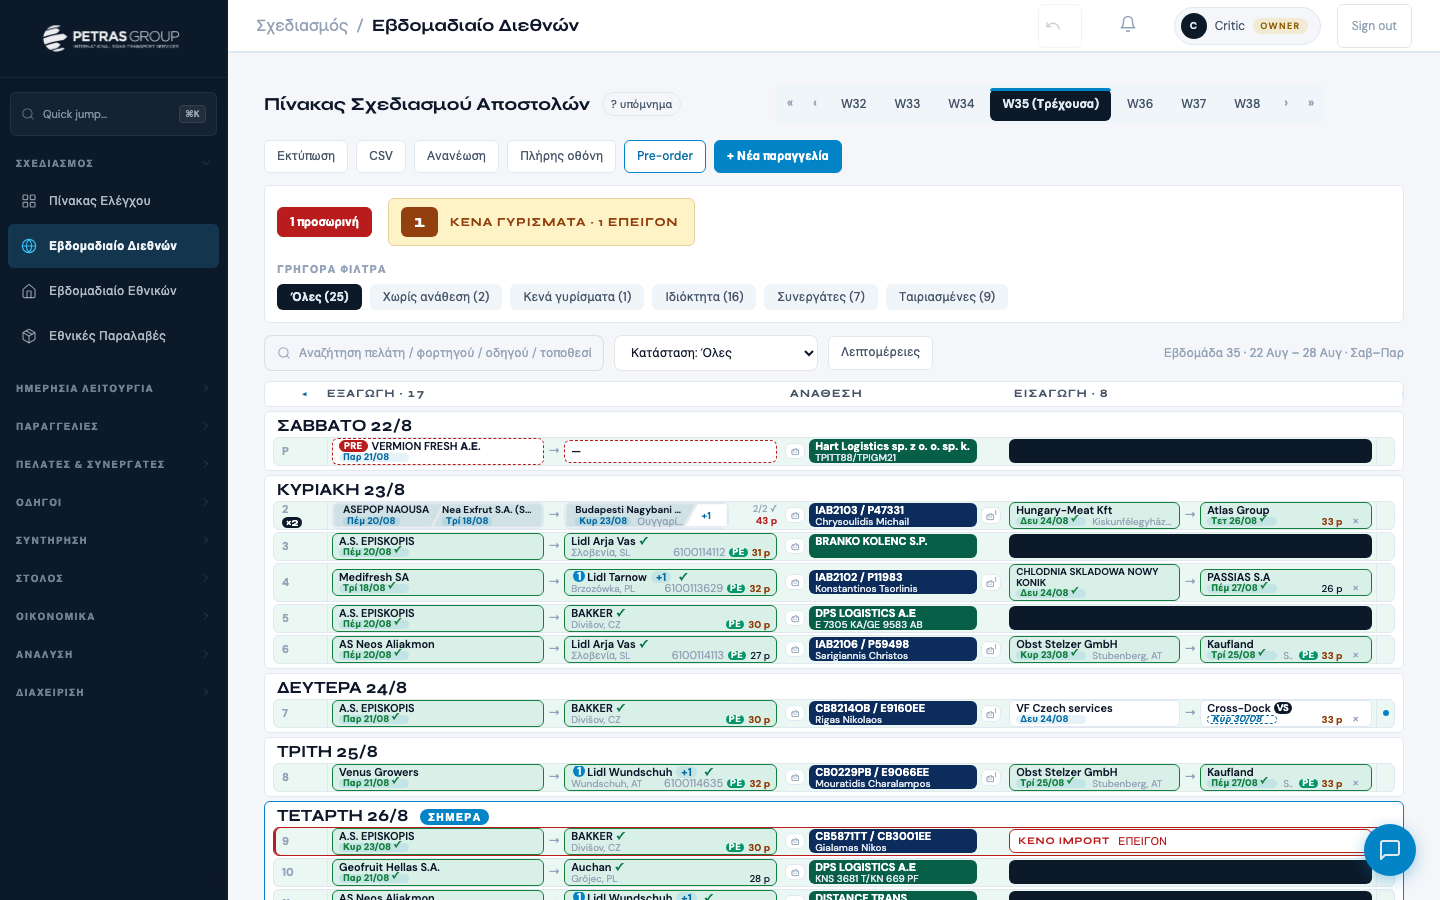
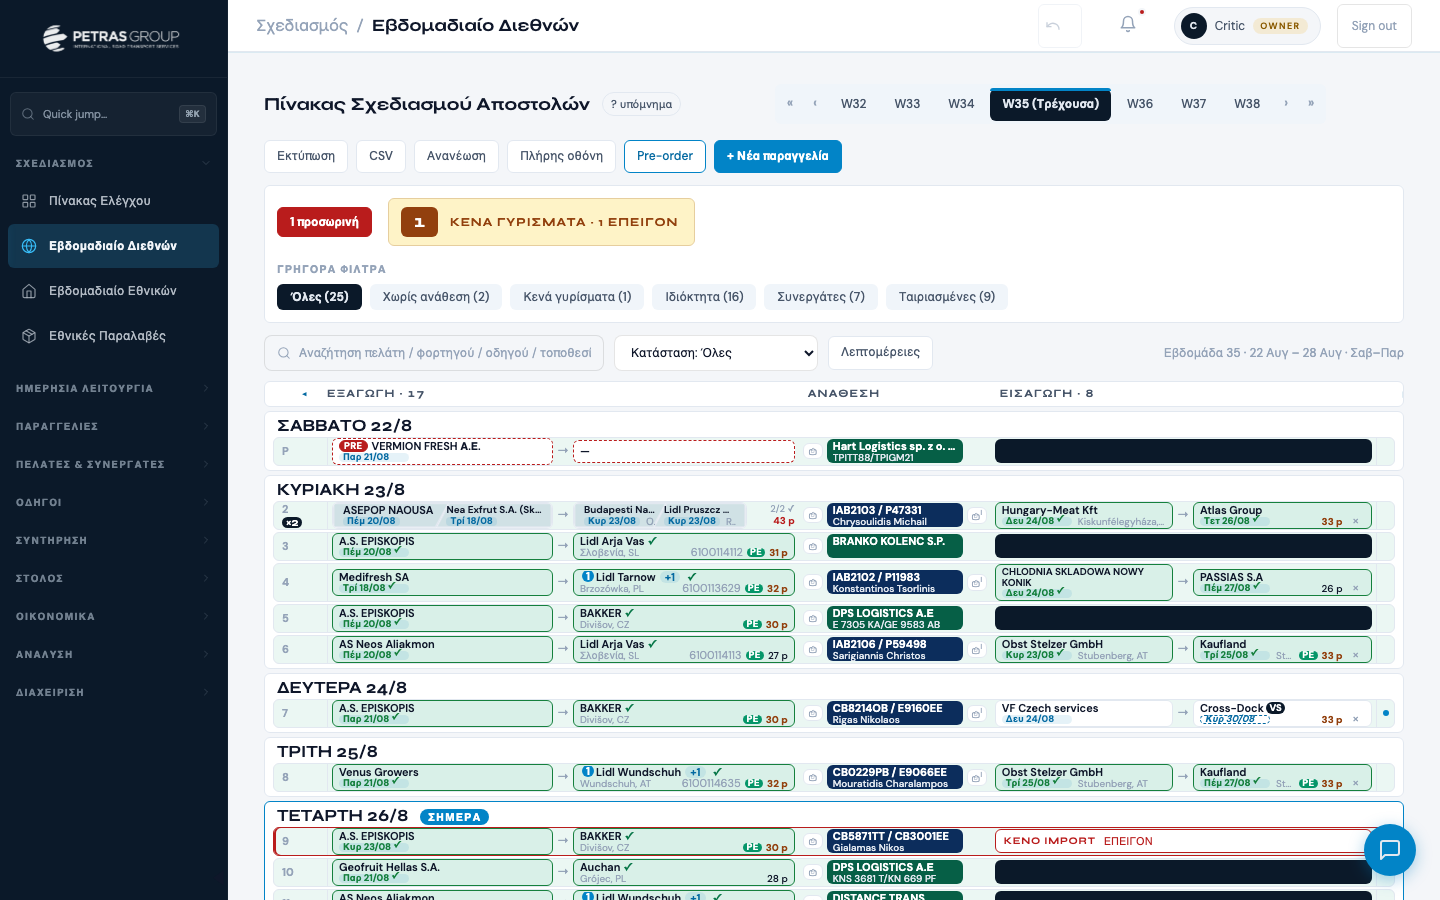
weekly_intl: ανάθεση 192px (απόφαση owner 28/9 — δέχεται ~11% με «…»+title)
Όλα τα breakpoints (και ≤1360px)· η κίνηση hover μένει. Στοίχιση 7 τύπων
γραμμής ίδια σε 1920/1440/1280, γραμμή 29px. Κόβεται μόνο το «Hart Logistics
sp. z o. o. sp. k.» (155px > 124px χώρου) στην εβδομάδα του rig.

diff --git a/modules/weekly_intl.js b/modules/weekly_intl.js
@@ -263,12 +263,12 @@ const _WI2_CSS=`
    τις κανονικές, στον ίδιο πίνακα. minmax(0,…) αφαιρεί το κατώφλι
    περιεχομένου: τα κλάσματα γίνονται καθαρά αναλογικά και κάθε γραμμή —
    και η κεφαλίδα — βγάζει ταυτόσημες στήλες. */
-/* ΑΝΑΘΕΣΗ 224px (owner 28/9 βράδυ: «παράκοψες το assign πλακίδιο»). 176px
-   έκοβε 28/54 κάρτες. Μετρήθηκε σε 54 κάρτες ανάθεσης 4 εβδομάδων (W33-W36,
-   καταγραφή 28/8): πλήρεις 48% @176 · 89% @192-216 · 91% @220 · 100% @224 —
-   οι 5 που θέλουν 223px είναι όλες «Hart Logistics sp. z o. o. sp. k.», ο
-   συχνότερος μακρύς συνεργάτης, οπότε το ≥95% πιάνεται μόνο στα 224. */
-.wk3.wi2 .wk3-cols,.wk3.wi2 .wk3-row{grid-template-columns:36px var(--fL) minmax(0,1.1fr) 224px minmax(0,0.9fr) var(--fR)}
+/* ΑΝΑΘΕΣΗ 192px (owner 28/9 βράδυ, μετά από μέτρηση). Σε 54 κάρτες ανάθεσης
+   4 εβδομάδων (W33-W36, καταγραφή 28/8): πλήρεις 48% @176 · 89% @192-216 ·
+   91% @220 · 100% @224. Ο owner διάλεξε 192: δέχεται το ~11% που κόβεται με
+   «…» (κυρίως «Hart Logistics sp. z o. o. sp. k.») — το πλήρες κείμενο είναι
+   στο title της κάρτας. */
+.wk3.wi2 .wk3-cols,.wk3.wi2 .wk3-row{grid-template-columns:36px var(--fL) minmax(0,1.1fr) 192px minmax(0,0.9fr) var(--fR)}
 .wi2-mast{display:flex;align-items:center;gap:var(--space-4);margin-bottom:var(--space-3);flex-wrap:wrap}
 .wi2-title{font-family:'Syne',sans-serif;font-weight:700;font-size:18px;color:var(--text);display:flex;align-items:center;gap:12px;white-space:nowrap}
 .wi2-legend-btn{font:500 11px 'DM Sans',sans-serif;color:var(--text-mid);border:1px solid var(--border);border-radius:var(--radius-full);padding:4px 8px;background:none;cursor:pointer}
@@ -523,7 +523,7 @@ const _WI2_CSS=`
    τα κρυμμένα κελιά δεν πιάνουν στήλη, οπότε η εξαγωγή έπεφτε στα 18px.
    minmax(0,…) όπως και στο πλήρες πλάτος, για να μην εξαρτώνται τα πλάτη
    από το περιεχόμενο της κάθε γραμμής. */
-@media (max-width:1360px){.wk3.wi2 .wk3-cols,.wk3.wi2 .wk3-row{grid-template-columns:36px minmax(0,1.1fr) 224px minmax(0,0.9fr)}
+@media (max-width:1360px){.wk3.wi2 .wk3-cols,.wk3.wi2 .wk3-row{grid-template-columns:36px minmax(0,1.1fr) 192px minmax(0,0.9fr)}
 /* 27/9: the style.css:2948 hide never won — «.wk3.wi2 .wk3-feed{display:flex}»
    above out-ranks its bare «.wk3-feed{display:none}», so both feed cells
    still took grid slots in the 4-column grid: every row wrapped to ~94px

diff --git a/sw.js b/sw.js
@@ -7,7 +7,7 @@
 //   - Offline banner via postMessage to all clients
 // ═══════════════════════════════════════════════════════════
 
-const SW_VERSION = '1790622036';
+const SW_VERSION = '1790623365';
 
 // Το vendor/leaflet/* ΔΕΝ μπαίνει στο APP_SHELL επίτηδες: το pre-cache στο
 // install θα κατέβαζε 228 KB σε κάθε χρήστη, ακυρώνοντας το lazy loading της

diff --git a/app.html b/app.html
@@ -135,7 +135,7 @@
 <!-- 3. Modules -->
 <script src="modules/preorder.js?v=1790573980"></script>
 <script src="modules/dashboard.js?v=1788720070"></script>
-<script src="modules/weekly_intl.js?v=1790622036"></script>
+<script src="modules/weekly_intl.js?v=1790623365"></script>
 <script src="modules/weekly_natl.js?v=1789387831"></script>
   <script src="modules/daily_ramp.js?v=1789328870"></script>
   <script src="modules/costs.js?v=1790108919"></script>
